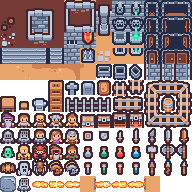
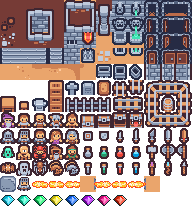
feat(game): Diamonds graphics added.

diff --git a/data/tsx/tilemap.tsx b/data/tsx/tilemap.tsx
@@ -1,6 +1,6 @@
 <?xml version="1.0" encoding="UTF-8"?>
-<tileset version="1.9" tiledversion="1.9.2" name="tilemap_packed" tilewidth="16" tileheight="16" tilecount="144" columns="12">
- <image source="../../img/tilemap_packed.png" width="192" height="192"/>
+<tileset version="1.9" tiledversion="1.9.2" name="tilemap_packed" tilewidth="16" tileheight="16" tilecount="168" columns="12">
+ <image source="../../img/tilemap_packed.png" width="192" height="224"/>
  <tile id="134">
   <animation>
    <frame tileid="134" duration="100"/>
